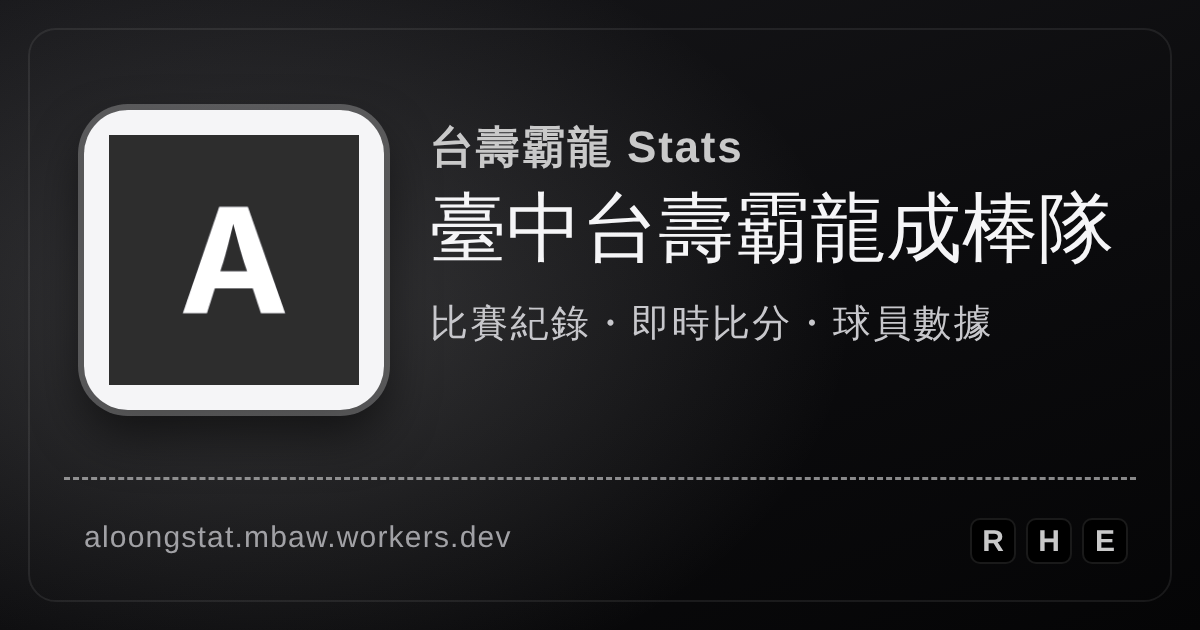
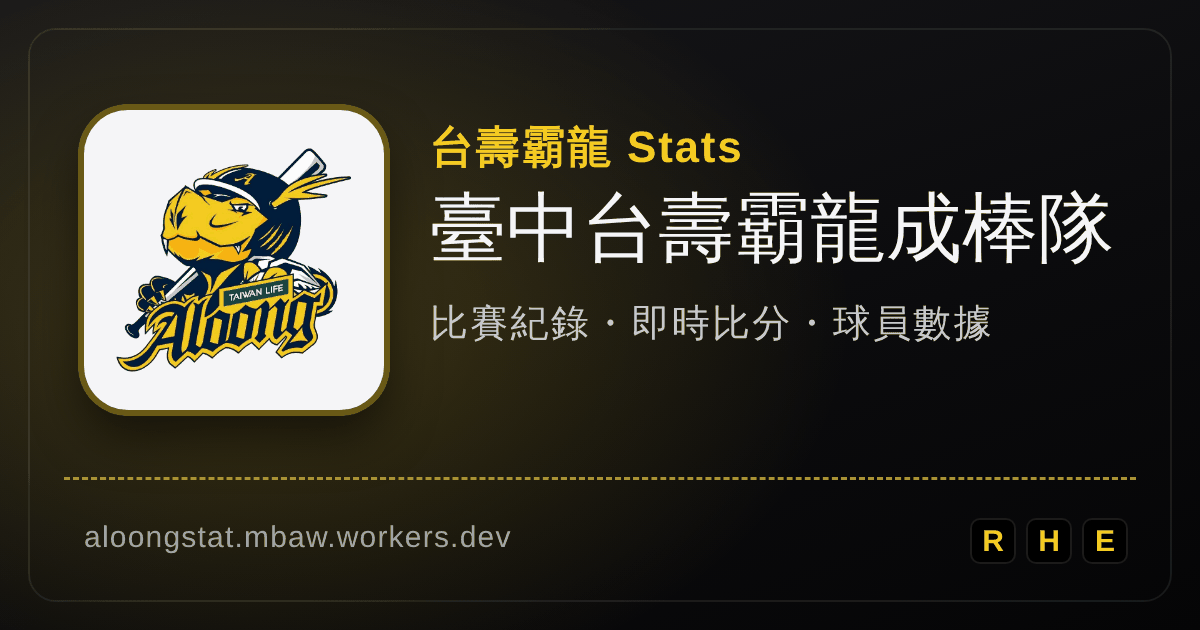
換上霸龍隊徽與隊色
- web/public/logo.png：完整隊徽（外圍白底改透明），使用指南頁與連結預覽圖用
- web/public/mark.png：只取霸龍頭像的正方形小圖示（分頁圖示、側欄、手機主畫面）
- 隊色取自隊徽：淺色模式深藍 #011d3b，深色模式與記分板金黃 #f4cb21
- 重新產生連結預覽圖 og.png

Claude-Session: https://claude.ai/code/session_01SH9XAQktdA6dWXnxUjbzk6

diff --git a/web/src/config/teamDefaults.ts b/web/src/config/teamDefaults.ts
@@ -16,7 +16,7 @@ export const TEAM_DEFAULTS = {
   /** VITE_TEAM_MARK: square mark (sidebar, tab icon, home screen): a file in web/public or a full URL. */
   mark: 'mark.png',
   /** VITE_TEAM_LOGO: full logo on the guide page: a file in web/public or a full URL. */
-  logo: 'mark.png',
+  logo: 'logo.png',
   /** VITE_TEAM_INNINGS: regulation innings; ERA and new games default to it. */
   innings: 9,
   /** VITE_TEAM_TIEBREAK: 延長賽突破僵局 — the bases the rule puts runners on from the inning after regulation (WBSC:
@@ -33,11 +33,11 @@ export const TEAM_DEFAULTS = {
   /** VITE_TEAM_ACCENT / _DARK: the team colour used for emphasis (titles' stitching, the team's own bars and buttons),
    *  in light and dark mode. Text drawn on it uses VITE_TEAM_ACCENT_INK / _INK_DARK. The dark-mode pair is also used on
    *  the always-dark scoreboard surfaces. */
-  // (a neutral placeholder until the team's colours are licensed)
-  accent: '#2d2d2d',
-  accentDark: '#c9c9c9',
+  // the logo's navy and gold: navy in light mode, gold on dark surfaces (dark mode and the scoreboards)
+  accent: '#011d3b',
+  accentDark: '#f4cb21',
   accentInk: '#ffffff',
-  accentInkDark: '#141414',
+  accentInkDark: '#011d3b',
   /** 投手休息表 (no VITE_ variable: edit here, per team). MLB Pitch Smart 19–22 歲建議 — a recommendation, not a league
    *  rule, and the site never blocks a pitching change with it. tiers = [most pitches that day, rest days]; past the last
    *  tier rest `over` days (the 2017 MLB/USA Baseball update; the live table leaves out 106–120). dailyMax = most pitches

diff --git a/web/src/config/social.test.ts b/web/src/config/social.test.ts
@@ -36,7 +36,7 @@ describe('link previews', () => {
   })
   it('falls back to the logo and a small card without og.png', () => {
     const html = socialMeta({ ...live, siteUrl: '' }, '/', { hasOgImage: false })
-    expect(meta(html, 'og:image')).toBe('/mark.png')
+    expect(meta(html, 'og:image')).toBe('/logo.png')
     expect(meta(html, 'twitter:card')).toBe('summary')
     expect(meta(html, 'og:image:width')).toBeUndefined()
   })

diff --git a/docs/HANDOVER.md b/docs/HANDOVER.md
@@ -84,7 +84,7 @@ Claude 會在 `supabase/migrations/` 多一個檔案並告訴你。到 Supabase 
 - 比賽影片也一樣：整場影片上傳到 YouTube 設成「不公開」（或放 Google Drive 設「知道連結的使用者：檢視者」），紀錄員在比賽頁「照片與影片」按「＋ 比賽影片」貼上；它存在同一張相簿表（標成「比賽影片」），不用改資料庫，網站也不嵌入播放器，點了在新分頁打開。
 
 ## 連結預覽（LINE、FB 貼網址時出現的圖和介紹）
-- 在 LINE、Facebook、Messenger、Discord 貼本站任何網址，都會出現同一張預覽圖、標題「台壽霸龍 Stats — 臺中台壽霸龍成棒隊數據平台」和一句介紹。預覽圖是 `web/public/og.png`（深色底、隊徽、隊名、網址），現在用的是暫用的灰底 A 隊徽；拿到隊徽授權後，請 Claude「重新產生連結預覽圖」。網站畫面本身沒有任何變化。
+- 在 LINE、Facebook、Messenger、Discord 貼本站任何網址，都會出現同一張預覽圖、標題「台壽霸龍 Stats — 臺中台壽霸龍成棒隊數據平台」和一句介紹。預覽圖是 `web/public/og.png`（深色底、隊徽、隊名、網址），換了隊徽或隊名，請 Claude「重新產生連結預覽圖」。網站畫面本身沒有任何變化。
 - **LINE、FB 會把預覽記住好幾天**：之前貼過的連結不會馬上換新圖。Facebook 可以到「分享偵錯工具」（developers.facebook.com/tools/debug）貼上網址 → 按「再次抓取」；LINE 通常幾天後自己更新。
 - **換了隊徽或隊名**：請 Claude「重新產生連結預覽圖」（它會跑 `tools/og/make-og.mjs`，產生新的 `web/public/og.png` 再上線）。
 - **換了網址或買了網域**：照 [SETUP.md](SETUP.md) 第 3 步設 `VITE_TEAM_SITE_URL`。沒設的話預覽圖用 `web/src/config/teamDefaults.ts` 裡的 `siteUrl`（網站目前的網址）。

diff --git a/CLAUDE.md b/CLAUDE.md
@@ -19,8 +19,9 @@ settings). Setup and operations are in docs/SETUP.md and docs/HANDOVER.md; keep 
   pitching / fielding rows, player pages, scouting only for the team's accounts. Not built yet: today everything is
   public read like the source site.
 - First features planned: login-only stats, per-pitch type + location (+ optional velocity), rule presets per
-  competition (甲組春季聯賽, 爆米花聯盟, 熱身賽), opponent scouting reports. Team colours and logo wait for the team's
-  permission: `web/public/mark.png` and the accent in teamDefaults.ts are neutral placeholders.
+  competition (甲組春季聯賽, 爆米花聯盟, 熱身賽), opponent scouting reports. The team's logo (given by the maintainer
+  2026-11-05) is `web/public/logo.png` (outer background made transparent) and `mark.png` (the mascot's head, for small
+  sizes); colours from it: navy #011d3b (accent, light mode) and gold #f4cb21 (dark mode and scoreboards).
 
 ## Layout
 - `web/` — the site (Vite + React 19 + TypeScript + Tailwind 4 + zustand). `npm ci`, `npm test`, `npm run build` from `web/`.

diff --git a/README.md b/README.md
@@ -31,4 +31,4 @@ npm test         # 測試
 npm run build    # 建置
 ```
 
-隊名、局數等設定在 `web/src/config/teamDefaults.ts`；隊徽放 `web/public/mark.png`（正方形，現在是暫用的灰底 A，取得球隊授權後再換）。
+隊名、局數等設定在 `web/src/config/teamDefaults.ts`；隊徽在 `web/public/logo.png`（完整版）與 `web/public/mark.png`（正方形、只有霸龍頭像，給小圖示用）；配色取自隊徽：深藍 #011d3b、金黃 #f4cb21。
